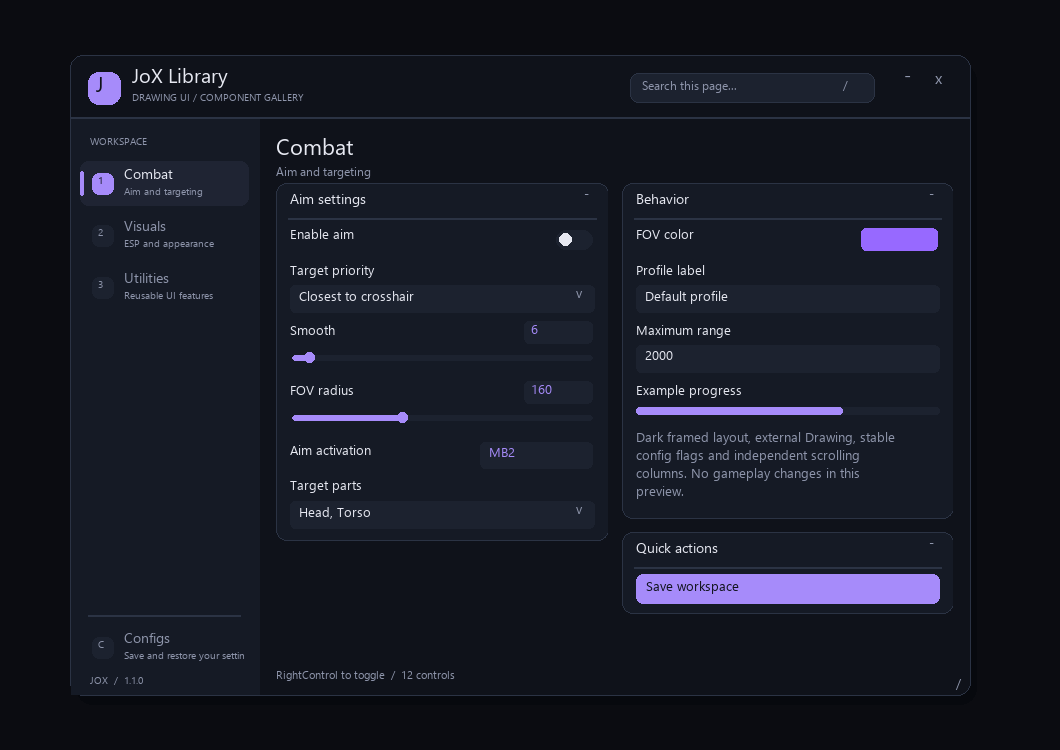
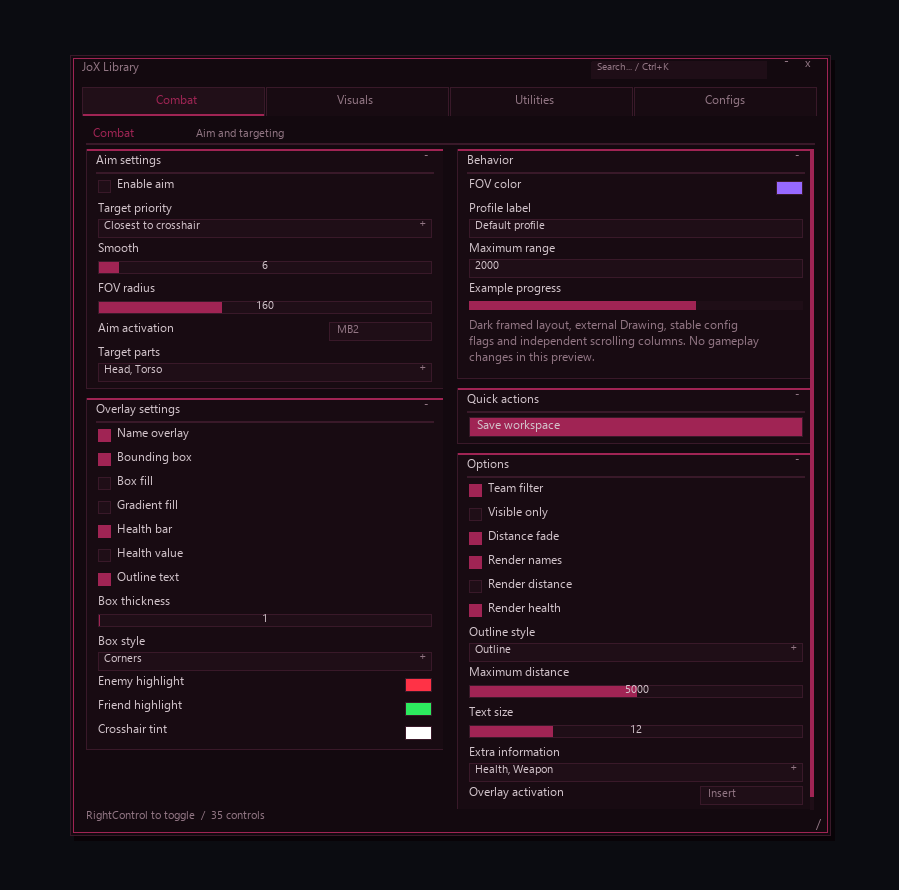
Restyle JoX with compact wine layout and horizontal tabs

Changed region(s): [[0.0623, 0.0613, 0.9344, 0.9507]]

diff --git a/README.md b/README.md
@@ -4,7 +4,7 @@
 
 # https://discord.gg/akgCMsmeuC
 
-A reusable Lua 5.4 interface library for Jael X. It uses the app's native external Drawing primitives, not Roblox GUI instances. Refined dark layout, searchable pages, sidebar navigation with pinned Configs, two independent scrolling columns, rounded cards and floating popups.
+A reusable Lua 5.4 interface library for Jael X. It uses the app's native external Drawing primitives, not Roblox GUI instances. Compact wine-colored layout inspired by the supplied reference: horizontal tabs, fine borders, square checkboxes, filled sliders, two scrolling columns and floating popups. All existing builders, callbacks, handles and configuration flags are retained.
 
 ## Files and loading
 
@@ -74,7 +74,7 @@ enabled:SetValue(false, true) -- Silent update.
 | API | Behavior |
 |---|---|
 | `Library:NewWindow(opts)` / `:Window(opts)` | Multiple draggable, resizable windows. `title`, `subtitle`, `configId`, `x`, `y`, `width`, `height`, `configs`, `configAliases`. |
-| `window:NewTab(title, description, opts?)` / `:Tab(...)` | Sidebar navigation; optional `icon` (short text) and `badge`. Configs stays last and is pinned at the bottom. |
+| `window:NewTab(title, description, opts?)` / `:Tab(...)` | Horizontal navigation. The optional tab metadata is retained; Configs stays last. Scroll the tab bar if it overflows. |
 | `window:SetSearch(text)` / `:GetSearch()` | Filter the active page by section, control name and tooltip. Ctrl+K focuses search. |
 | `window:ResetDefaults(includeAppearance?)` | Reset feature values and fire callbacks. Pass `true` to include Configs/appearance. |
 | `tab:NewSection(title, column)` / `:Section(...)` | `left`, `right`, or `full`; do not mix full with side columns on a tab. |
@@ -118,7 +118,7 @@ The automatic **Configs** tab is always last. It includes named config save/load
 
 Use explicit stable flags to preserve settings when labels change. Pass `configAliases={oldFlag=newFlag}` to migrate old keys. Window position, dimensions, element values, keybind modes and the settings in Configs are saved. Configs load on user request; they are not automatically applied to a new script.
 
-`Library:SetThemePreset(name)` applies Violet, Ocean, Emerald, Rose or Amber; Configs provides the same presets. Explicit custom colors survive saving/loading a profile. `Library:SetTheme({accent=Color3.fromRGB(...)})` updates colors globally. Theme keys: `background`, `panel`, `header`, `field`, `border`, `text`, `muted`, `accent`, `danger`, `success`. Appearance and notification settings apply across the library's windows. Per-script feature colors use their own ColorPicker controls.
+`Library:SetThemePreset(name)` applies Wine, Violet, Ocean, Emerald, Rose or Amber; Configs provides the same presets. Explicit custom colors survive saving/loading a profile. `Library:SetTheme({accent=Color3.fromRGB(...)})` updates colors globally. Theme keys: `background`, `panel`, `header`, `field`, `border`, `text`, `muted`, `accent`, `danger`, `success`. Appearance and notification settings apply across the library's windows. Per-script feature colors use their own ColorPicker controls.
 
 `Library:Notify(title, body, duration?, kind?)` shows a wrapped notification with lifetime indicator. `kind="error"` uses the danger color; `kind="success"` uses the success color. It returns a handle with `Dismiss()`; each notice also has a close button. The Configs tab controls visibility, duration and screen corner. Up to five notifications are retained.
 
@@ -141,3 +141,9 @@ The existing builder/handle API and raw loader URL remain compatible. The compon
 Preview images below are rendered from captured Drawing commands, not screenshots of a live Jael X session. Native typography and performance still need validation inside Jael X.
 
 ![Color Studio preview](assets/color-studio.png)
+
+## Version 1.1.1 visual refresh
+
+Only the presentation and default palette change. The methods, callback payloads, flags, configuration namespace and loading URL stay compatible with 1.1.0. Existing scripts can use the new layout without changing their builders. Wine is the new default accent, and previously saved custom colors still restore normally.
+
+The reference layout uses horizontal tabs, compact checkbox rows, thin magenta separators and filled sliders with centered editable values. Sections keep their two independent scroll areas, and search and the HSV/RGB/HEX color picker remain available. Validation includes clicking the new checkbox/field positions, configuration roundtrip, color editing and the Fisch integration. Preview images are offline renders.
